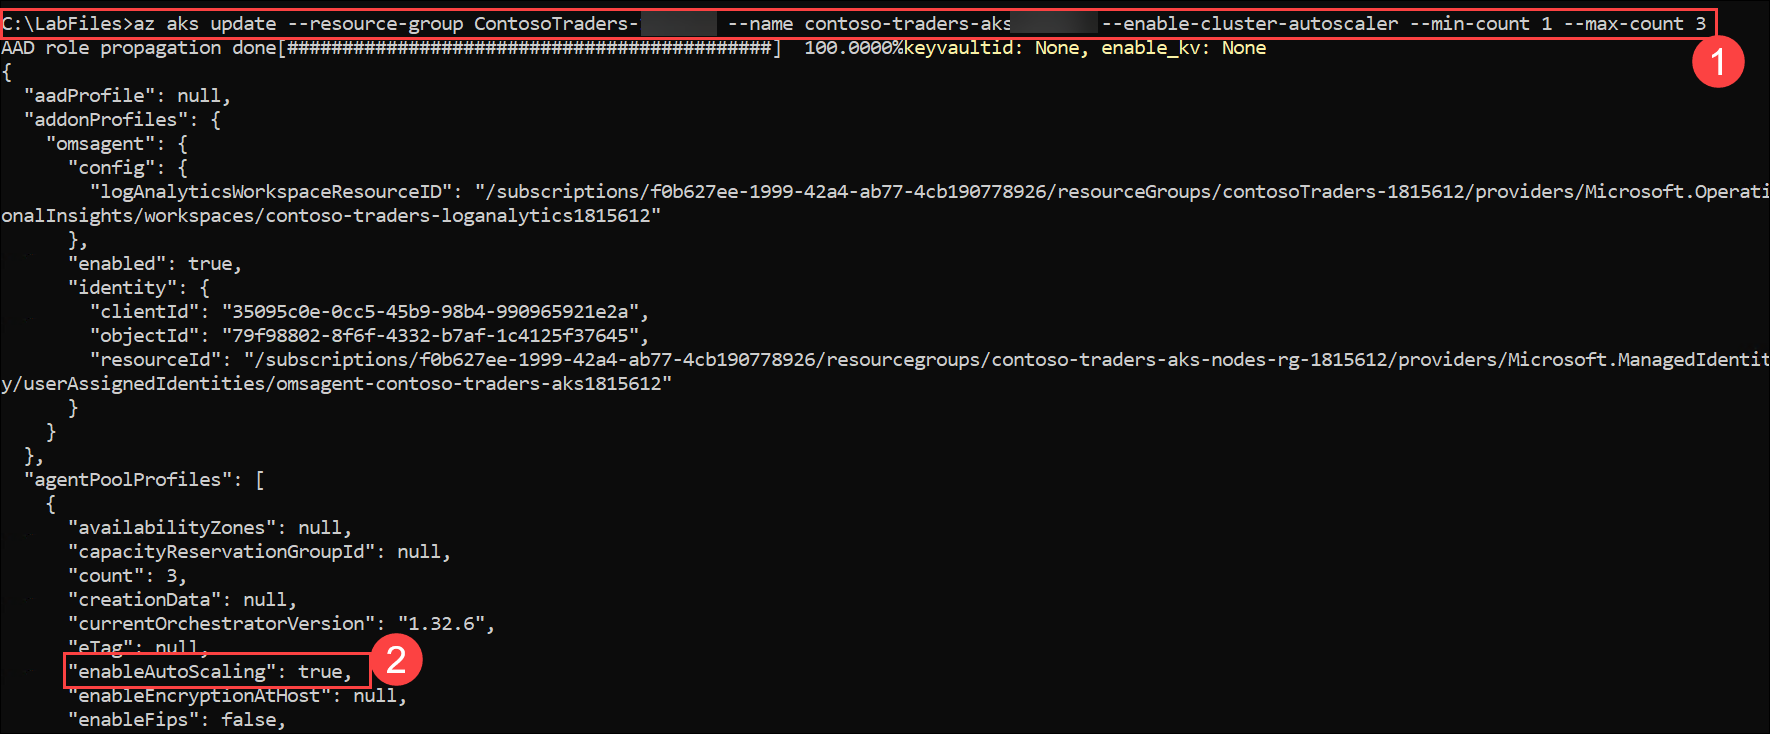
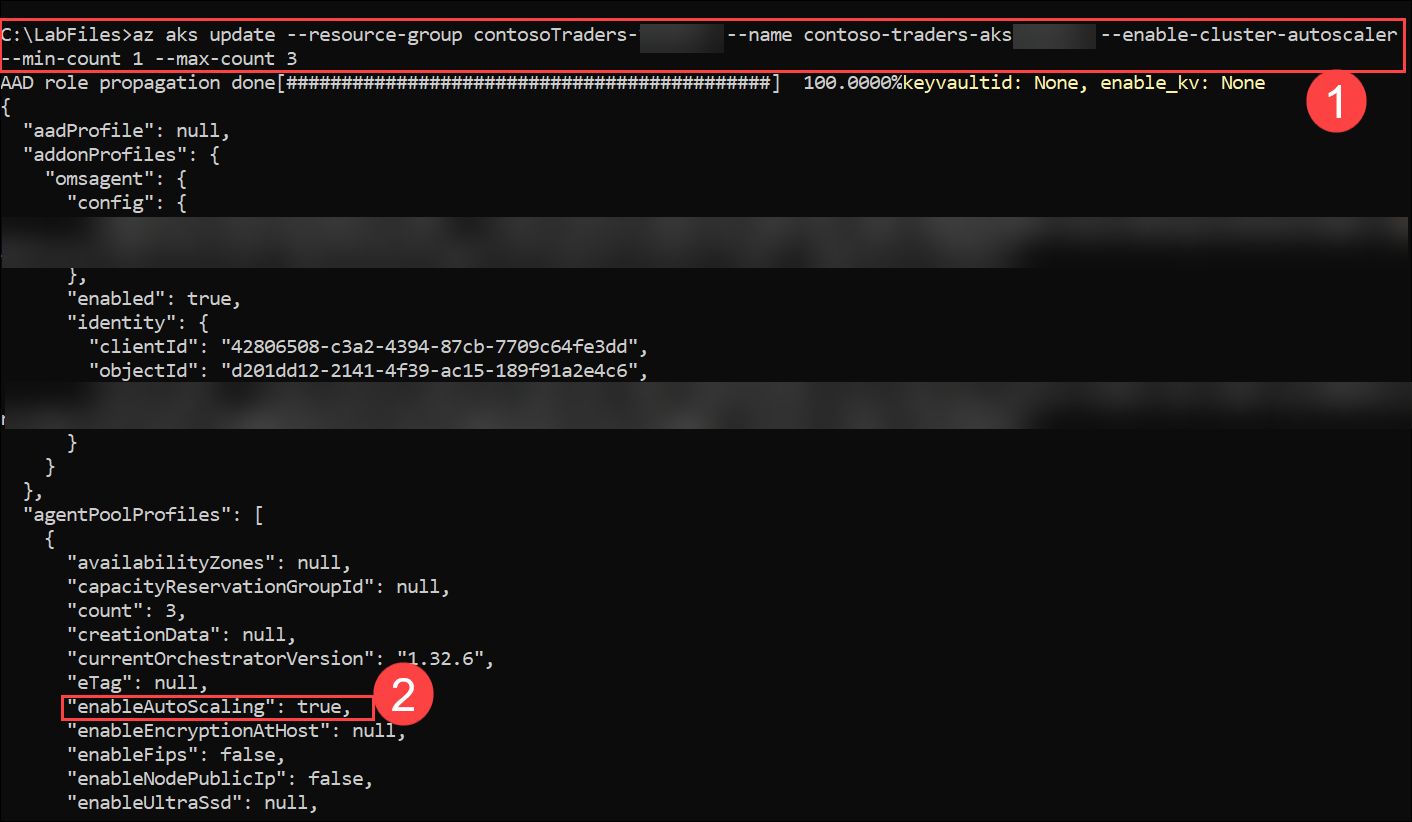
Validation updates

Changed region(s): [[0.0, 0.0, 1.0, 0.5695], [0.0, 0.5695, 0.3428, 0.9891]]

diff --git a/labguide/04-Scale-the-application-and-Validate-HA.md b/labguide/04-Scale-the-application-and-Validate-HA.md
@@ -117,23 +117,44 @@ In this task, you will be configuring the Horizontal Autoscaling for your Kubern
 
 In this task, you will be enabling the cluster autoscaler for the existing AKS cluster, and you will be autoscaling the cluster node pools.
 
-1. Navigate back to your Windows command prompt. If you are not logged into Azure, log in to Azure with the command below.
+1. Navigate back to your Windows command prompt. If you are not logged into Azure, log in to Azure with the command below **(1)**.Then a popup appears for _SignIn_ then choose **Work or school account (2)** and click on **Continue (3)**.
+    ```
+    az login 
+    ```
+    ![](media/E4T4S1.png)
 
-    ```
-    az login -u <inject key="AzureAdUserEmail"></inject> -p <inject key="AzureAdUserPassword"></inject>
-    ```
-    ![](media/E3T1S1.png)
+    > **Note:** If you are unable to see the pop for Signin minimize the command prompt to view the popup window.
+
+1. On the **Sign into Microsoft Azure** tab, you will see the login screen, in that enter the following email/username and then click on **Next**. 
+
+   * Email/Username: <inject key="AzureAdUserEmail"></inject>
+   
+     ![](media/GS3.png "Enter Email")
+     
+1. Now enter the following password and click on **Sign in**.
+
+   * Password: <inject key="AzureAdUserPassword"></inject>
+   
+     ![](media/GS4.png "Enter Password")
+
+1. Then you will see popup **Automatically sign in to all desktop apps and websites on this device?** click on **No, this app only (1)**.
+
+    ![](media/E3T1S4.png)
+
+1. Once after giving the credentials it will fetch the **Tenants/Subscriptions** associated to the give username then press **Enter** to select the default Tenant/Subscription.
+
+    ![](media/E4T1S1.png)
 
 1. In order to set up the Kubernetes cluster connection, run the following command.
 
     ```
-    az aks get-credentials --resource-group ContosoTraders-<inject key="DeploymentID" enableCopy="true"/> --name contoso-traders-aks<inject key="DeploymentID" enableCopy="true"/>
+    az aks get-credentials --resource-group contosoTraders-<inject key="DeploymentID" enableCopy="true"/> --name contoso-traders-aks<inject key="DeploymentID" enableCopy="true"/>
     ```
     
 1.  Verify the `count` **(1)** of node pools in the cluster and ensure that `enablingAutoScaling` is `false` **(2)**.
     
      ```
-     az aks nodepool list --resource-group ContosoTraders-<inject key="DeploymentID" enableCopy="true"/> --cluster-name contoso-traders-aks<inject key="DeploymentID" enableCopy="true"/>
+     az aks nodepool list --resource-group contosoTraders-<inject key="DeploymentID" enableCopy="true"/> --cluster-name contoso-traders-aks<inject key="DeploymentID" enableCopy="true"/>
      ```   
     
     ![](media/E4T4S3.png)
@@ -151,7 +172,7 @@ In this task, you will be enabling the cluster autoscaler for the existing AKS c
 1. Run the below command to autoscale the node pools in the existing cluster.
 
     ```
-    az aks update --resource-group ContosoTraders-<inject key="DeploymentID" enableCopy="true"/> --name contoso-traders-aks<inject key="DeploymentID" enableCopy="true"/> --update-cluster-autoscaler --min-count 1 --max-count 5
+    az aks update --resource-group contosoTraders-<inject key="DeploymentID" enableCopy="true"/> --name contoso-traders-aks<inject key="DeploymentID" enableCopy="true"/> --update-cluster-autoscaler --min-count 1 --max-count 5
     ```
    
    ![](media/E4T4S5.png)
@@ -217,7 +238,7 @@ In this task, you will restart containers and validate that the restart does not
 
 In this task, you will set up Autoscale on Azure Cosmos DB.
 
-1. In the Azure Portal, navigate to the **Contosotraders-<inject key="DeploymentID" enableCopy="false" />** Azure Cosmos DB for MongoDB Account.
+1. In the Azure Portal, navigate to the **contosotraders-<inject key="DeploymentID" enableCopy="false" /> (2)** Azure Cosmos DB for MongoDB Account(RU) service in the RG **contosoTraders-<inject key="DeploymentID" enableCopy="false" /> (1)** .
 
     ![](media/E2T2S2.png "View replica details")
 
@@ -245,9 +266,10 @@ In this task, you will set up Autoscale on Azure Cosmos DB.
 
 In this task, you will run a performance test script that will test the Autoscale feature of Azure Cosmos DB so you can see that it will now scale greater than 400 RU/s.
 
-1. In the Azure Portal, navigate to the **contosotraders-<inject key="DeploymentID" enableCopy="false" />** .Azure Cosmos DB for MongoDB Account.
+1. In the Azure Portal, navigate to the **contosotraders-<inject key="DeploymentID" enableCopy="false" /> (2)** Azure Cosmos DB for MongoDB Account(RU) service in the RG **contosoTraders-<inject key="DeploymentID" enableCopy="false" /> (1)** .
 
-    ![](media/p5-t6-st1--new.png "View replica details")
+
+     ![](media/E2T2S2.png "View replica details")
 
 1. Select **Connection strings** under **Settings** tab.
 

diff --git a/labguide/Deploy theApplication-to-Azure-Kubernetes-Service.md b/labguide/Deploy theApplication-to-Azure-Kubernetes-Service.md
@@ -20,10 +20,10 @@ In this task, you will gather the necessary information about your Azure Kuberne
 
 > **Note**: The following tasks should be executed in the command prompt.
 
-1. Open a new command prompt as Administrator in your jump VM and log in to Azure with the below command.
+1. Open a new command prompt as Administrator in your jump VM and log in to Azure with the below command **(1)**. Then a popup appears for _SignIn_ then choose **Work or school account (2)** and click on **Continue (3)**.
    
     ```bash
-    az login -u <inject key="AzureAdUserEmail"></inject> -p <inject key="AzureAdUserPassword"></inject>
+    az login
     ```
     ![](media/E3T1S1.png)
 
@@ -32,8 +32,29 @@ In this task, you will gather the necessary information about your Azure Kuberne
     ```bash
     choco install azure-cli
     ```
+    > **Note:** If you are unable to see the pop for Signin minimize the command prompt to view the popup window.
+
+1. On the **Sign into Microsoft Azure** tab, you will see the login screen, in that enter the following email/username and then click on **Next**. 
+
+   * Email/Username: <inject key="AzureAdUserEmail"></inject>
+   
+     ![](media/GS3.png "Enter Email")
+     
+1. Now enter the following password and click on **Sign in**.
+
+   * Password: <inject key="AzureAdUserPassword"></inject>
+   
+     ![](media/GS4.png "Enter Password")
+
+1. Then you will see popup **Automatically sign in to all desktop apps and websites on this device?** click on **No, this app only (1)**.
+
+    ![](media/E3T1S4.png)
+
+1. Once after giving the credentials it will fetch the tenants/subscriptions associated to the give username then press **Enter** to select the default Tenant/Subscription.
+
+    ![](media/E3T1S5.png)
     
-2. Run the following command to set up the Kubernetes cluster connection using kubectl.
+1. Run the following command to set up the Kubernetes cluster connection using kubectl.
 
    ```bash
    az aks get-credentials -a --name contoso-traders-aks<inject key="DeploymentID" enableCopy="true"/> --resource-group contosoTraders-<inject key="DeploymentID" enableCopy="true"/>
@@ -57,7 +78,7 @@ In this task, you will define a Kubernetes Service for your API to enable intern
 
     ![This is a screenshot of the Azure Portal for AKS showing adding a Service.](media/E3T2S1.png "Add a Service")
    
-1. We have already defined a new AKS **Namespaces** for your API deployment. Going further, you will be using the **contoso-traders** namespace only. 
+1. We have already defined a new AKS **Namespaces (2)** for your API deployment. Going further, you will be using the **contoso-traders (3)** namespace only. 
 
     ![This is a screenshot of the Azure Portal for AKS showing adding a Service.](media/E3T2S2.png "Add a Service")
     
